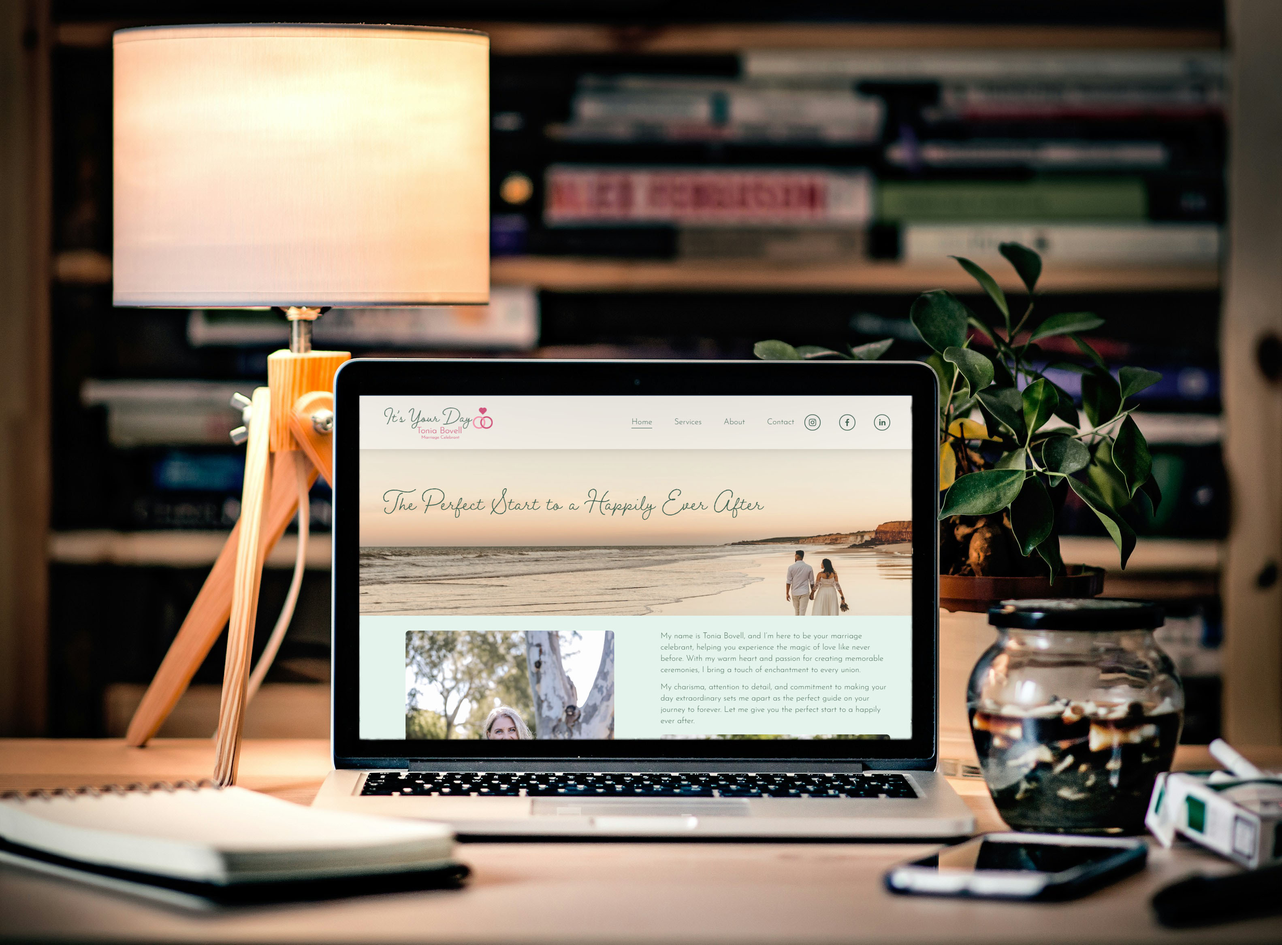
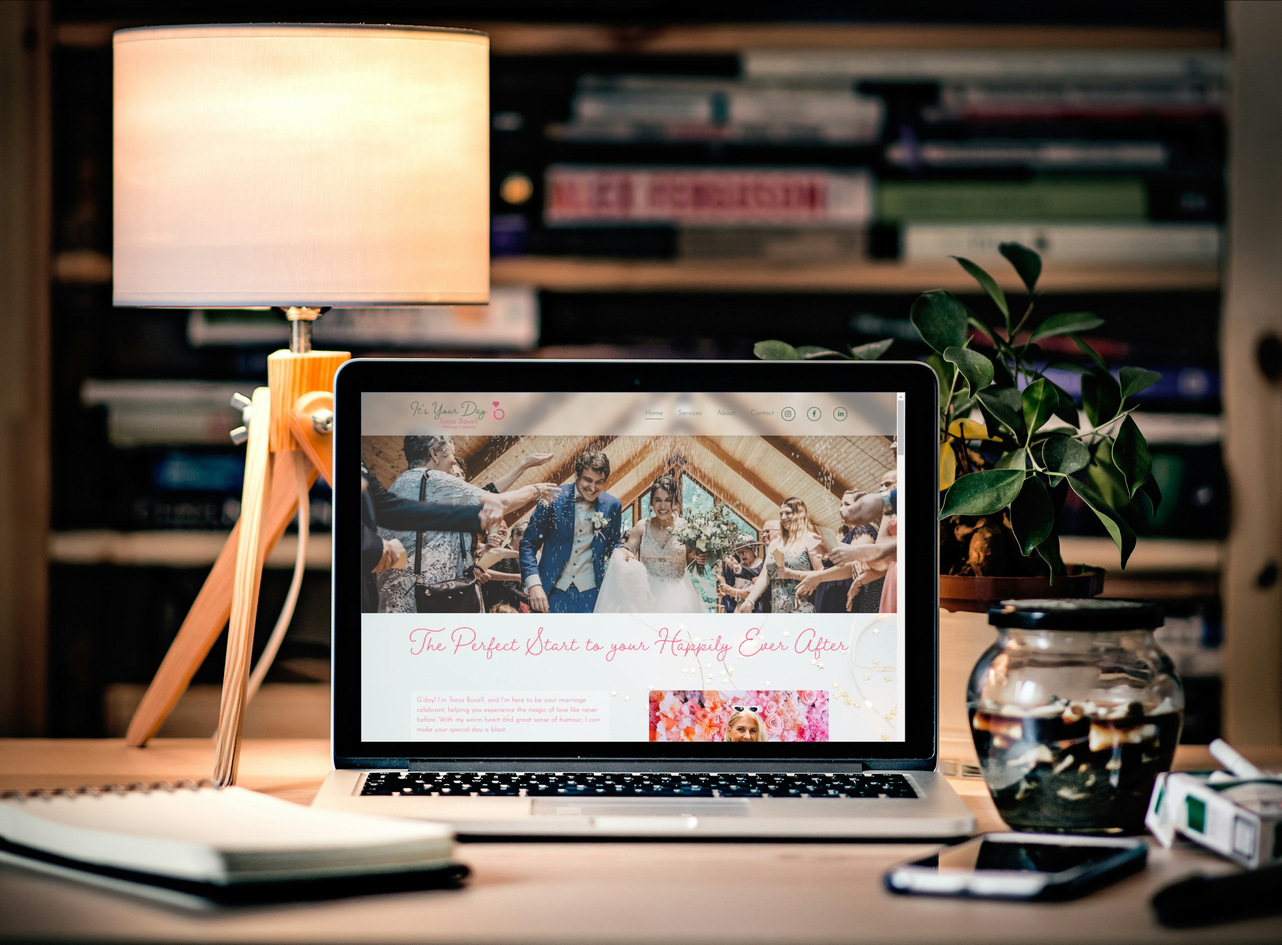
Added packages section, new images, bugfixes

Changed region(s): [[0.2787, 0.401, 0.7122, 0.8021]]

diff --git a/v2/src/components/css/packagesection.css b/v2/src/components/css/packagesection.css
@@ -1,0 +1,215 @@
+/* ./src/components/css/packagesection.css */
+
+/* Packages Section */
+
+#packages {
+    position: relative;
+    margin: auto;
+    margin-bottom: 20rem;
+    height: fit-content;
+    min-height: 100dvh;
+}
+
+.pkgBgImage {
+    width: 100%;
+    min-height: 100vh;
+}
+
+.pkg-bgImage-container {
+    position: absolute;
+    width: 100%; height: 100%;
+    top: 0; bottom: 0; left: 0; right: 0;
+    background-position: bottom center;
+    background-size: cover;
+}
+
+.package-container {
+    display: flex;
+    justify-content: center;
+    flex-wrap: wrap;
+    max-width: 80vw;
+    margin: auto;
+    gap: 30px;
+}
+
+.package-details {
+    width: 100%;
+    display: flex;
+    flex-direction: column;
+    justify-content: space-around;
+}
+
+.package-card {
+    width: fit-content;
+    max-width: 33%;
+    flex: 1;
+    flex-basis: calc(33.333% - 40px);
+    color: var(--inv-pri-colour);
+    background: rgb(0,187,255);
+    background: linear-gradient(135deg, var(--_gradient-start), var(--_gradient-end));
+    border-radius: 10px;
+    padding: 2rem;
+    transition: background-color var(--_transition-time), color var(--_transition-time);
+    transform-style: preserve-3d;
+    transform: perspective(1000px);
+
+    border: 1px solid;
+    border-color: var(--_border-colour);
+
+    -webkit-backface-visibility: hidden;
+    backface-visibility: hidden;
+    z-index: 50;
+}
+
+.package-inner {
+    transform: translateZ(10px);
+    transform-style: preserve-3d;
+    background-color: var(--inv-bg-colour);
+    border-radius: 10px;
+    display: flex;
+    flex-direction: column;
+    justify-content: space-around;
+    padding: 1rem;
+    width: auto; height: calc(100% - 2rem);
+}
+
+.package-name {
+    transform: translateZ(50px);
+    color: var(--secondary-colour);
+}
+
+.package-price {
+    transform: translateZ(50px);
+    color: var(--tertiary-colour);
+    font-weight: 600;
+    padding: 0;
+    margin: 0;
+    text-align: center;
+}
+
+.package-descriptor {
+    transform: translateZ(50px);
+    margin-top: 0;
+    padding-top: 0;
+}
+
+.package-descriptor ul, .package-descriptor li {
+    list-style-type: disc;
+    color: var(--inv-pri-colour);
+    border: none;
+    background: none;
+    text-align: left;
+}
+
+.card-buttons {
+    margin: 20px;
+}
+
+.card-buttons .link-button {
+    box-shadow: var(--secondary-colour) 4px 2px 10px 0px, var(--tertiary-colour) -4px -2px 10px 0px;
+    background-color: var(--inv-pri-colour);
+}
+
+.card-buttons .link-button:hover {
+    box-shadow: var(--tertiary-colour) 4px 2px 10px 0px, var(--secondary-colour) -4px -2px 10px 0px;
+    background-color: var(--secondary-colour);
+    color: var(--primary-colour);
+    cursor: pointer;
+}
+
+.card-buttons .link-button > a {
+    font-style: normal;
+}
+
+.card-buttons .link-button a:hover {
+    color: var(--primary-colour);
+}
+
+/* Mobile view */
+@media (max-width: 425px) {
+    #packages {
+        height: 100dvh;
+    }
+
+    .body-container > p {
+        margin: 1rem auto;
+        font-size: var(--step-1);
+    }
+
+    .package-card {
+        width: auto;
+        min-width: unset;
+        padding: 0; margin: 10px;
+    }
+
+    .package-container {
+        flex-wrap: wrap;
+        flex-direction: column;
+    }
+
+    .package-inner {
+        padding: 10px; margin: 10px;
+    }
+}
+
+/* Tablet/medium displays */
+@media (min-width: 426px) and (max-width: 810px) {
+    #packages {
+        min-height: 100dvh;
+        margin-bottom: 25rem;
+    }
+
+    .body-container > p {
+        width: 80vw;
+        margin: 1rem auto;
+        font-size: var(--step-1);
+    }
+
+    .package-container {
+        flex-wrap: wrap;
+        flex-direction: column;
+    }
+
+    .package-inner {
+        padding: 10px;
+        width: auto;
+    }
+
+}
+
+/* Laptops */
+@media (min-width: 811px) and (max-width: 1280px) {
+    #packages {
+        min-height: 100vh;
+        margin-bottom: 20rem;
+    }
+
+    .package-container {
+        flex-wrap: wrap;
+        flex-direction: column;
+    }
+
+    .package-name {
+        font-size: var(--step-3);
+    }
+
+    .package-price {
+        font-size: var(--step-1);
+    }
+}
+
+/* Large Displays */
+@media (min-width: 1281px) {
+    #packages {
+        min-height: 100vh;
+    }
+
+    .package-name {
+        font-size: var(--step-3);
+    }
+
+    .package-price {
+        font-size: var(--step-1);
+    }
+
+}

diff --git a/v2/src/components/packagesection.js b/v2/src/components/packagesection.js
@@ -1,0 +1,96 @@
+// src/components/testimonialsection.js
+
+// react and plugins
+import React, { useEffect } from 'react';
+import { graphql, useStaticQuery } from "gatsby";
+import { getImage } from "gatsby-plugin-image";
+import { BgImage } from "gbimage-bridge";
+import VanillaTilt from 'vanilla-tilt';
+
+// components
+import PackageCardComponent from '../components/packagecard';
+import '../components/css/packagesection.css';
+
+const PackagesSection = ({ darkMode }) => {
+    
+    const data = useStaticQuery(graphql`
+        query {
+            packageBGImageDark: file(relativePath: { eq: "christian-wiediger-WkfDrhxDMC8-unsplash.jpg" }) {
+                childImageSharp {
+                    gatsbyImageData(
+                        width: 2000,
+                        quality: 50,
+                        placeholder: BLURRED, 
+                        formats: [AUTO, WEBP, AVIF],
+                        webpOptions: {quality: 70}
+                    )
+                }
+            }
+
+            packageBGImageLight: file(relativePath: { eq: "christopher-gower-m_HRfLhgABo-unsplash.jpg" }) {
+                childImageSharp {
+                    gatsbyImageData(
+                        width: 2000,
+                        quality: 50,
+                        placeholder: BLURRED, 
+                        formats: [AUTO, WEBP, AVIF],
+                        webpOptions: {quality: 70}
+                    )
+                }
+            }
+
+            allSanityPackages(sort: {fields: price, order: ASC}) {
+                edges {
+                    node {
+                        id
+                        package
+                        price
+                        _rawDescriptor(resolveReferences: { maxDepth: 5 })
+                    }
+                }
+            }
+        }
+    `);
+
+    const packageBGImageDark = getImage(data.packageBGImageDark);
+    const packageBGImageLight = getImage(data.packageBGImageLight);
+    
+    // Fancy tilt card effect
+    const isSafari = /^((?!chrome|android).)*safari/i.test(navigator.userAgent);
+    useEffect(() => {
+        if(!isSafari) {
+            const cards = document.querySelectorAll(".package-card");
+            if (cards.length) {
+                VanillaTilt.init(cards, {
+                    max: 5,
+                    speed: 1000,
+                    glare: true,
+                    "max-glare": 0.5,
+                });
+            }
+        }
+    })
+
+    return (
+        <section id="packages" name="packages">
+            <div className="pkg-bgImage-container">
+                <BgImage image={darkMode ? packageBGImageDark : packageBGImageLight} className='pkgBgImage'>
+                <div className="body-container">
+                    <div className="body-heading"><h1>Web Design Packages</h1></div>
+                    <p>I offer three web design packages to cater for projects of all sizes.</p>
+                    <div className="package-container">
+                        {data.allSanityPackages.edges.map((edge, index) => {
+                            const card = edge.node;
+                            return (
+                                <PackageCardComponent key={card.id} webpackage={card} />
+                            );
+                        })}
+                    </div>
+                </div>
+                </BgImage>
+            </div>
+        </section>
+    );
+};
+
+export default PackagesSection;

diff --git a/v2/src/pages/index.js b/v2/src/pages/index.js
@@ -10,11 +10,12 @@ import { faFacebook, faXTwitter, faInstagram, faYoutube } from '@fortawesome/fre
 import { Link as ScrollLink, animateScroll as scroll, Events, scrollSpy } from 'react-scroll';
 
 // components
-import { SEO } from '../components/seo'
+import { SearchEngineOptimisation } from '../components/seo'
 const AboutSection = React.lazy(() => import('../components/aboutsection'));
 const ProjectSection = React.lazy(() => import( '../components/projectsection'));
 const ContactSection = React.lazy(() => import( '../components/contactsection'));
 const TestimonialSection = React.lazy(() => import( '../components/testimonialsection'));
+const PackageSection = React.lazy(() => import( '../components/packagesection'));
 
 const IndexPage = () => {
     //Handle the light/dark mode switching
@@ -207,7 +208,7 @@ const IndexPage = () => {
                         <div className="control-button"><FontAwesomeIcon icon={faArrowDown} /></div>
                     </div>
                 </div>
-                <div className='nav-container' onMouseEnter={toggleMenu} onMouseLeave={toggleMenu}
+                <div className='nav-container' onMouseEnter={toggleMenu} onMouseLeave={toggleMenu} aria-label='Toggle Menu'
                         onKeyDown={(e) => {
                             if (e.key === 'Enter' || e.key ===' ') {
                                 toggleMenu();
@@ -222,6 +223,7 @@ const IndexPage = () => {
                             <ScrollLink to="about" smooth='easeInOutCubic' duration={1000}><li>About</li></ScrollLink>
                             <ScrollLink to="projects" smooth='easeInOutCubic' duration={1000}><li>Projects</li></ScrollLink>
                             <ScrollLink to="testimonials" smooth='easeInOutCubic' duration={1000}><li>Testimonials</li></ScrollLink>
+                            <ScrollLink to="packages" smooth='easeInOutCubic' duration={1000}><li>Packages</li></ScrollLink>
                             <ScrollLink to="contact" smooth='easeInOutCubic' duration={1000}><li>Contact</li></ScrollLink>
                         </ul>
                     </nav>
@@ -246,6 +248,7 @@ const IndexPage = () => {
                     <AboutSection darkMode={darkMode} />
                     <ProjectSection projects={projects} background={projectsBGImage} />
                     <TestimonialSection />
+                    <PackageSection darkMode={darkMode}/>
                     <ContactSection />
                 </Suspense>
             </main>
@@ -268,5 +271,5 @@ const IndexPage = () => {
 export default IndexPage;
 
 export const Head = () => {
-    <SEO />
+    <SearchEngineOptimisation />
 }

diff --git a/v2/src/components/packagecard.js b/v2/src/components/packagecard.js
@@ -1,0 +1,26 @@
+// src/components/packageCard.js
+import React from 'react';
+import BlockContent from '@sanity/block-content-to-react'
+import { FontAwesomeIcon } from '@fortawesome/react-fontawesome';
+import { faDollarSign } from '@fortawesome/free-solid-svg-icons';
+import { Link as ScrollLink, animateScroll as scroll, Events, scrollSpy } from 'react-scroll';
+
+const PackageCardComponent = ({ webpackage }) => {
+
+    return (
+        <div className="package-card">
+            <div className="package-inner">
+                <div className="package-details">
+                    <h2 className='package-name'>{webpackage.package}</h2>
+                    <h3 className='package-price'><FontAwesomeIcon icon={faDollarSign}/>{webpackage.price}</h3>
+                    <BlockContent blocks={webpackage._rawDescriptor} className='package-descriptor'/>
+                    <div class='card-buttons'>
+                        <ScrollLink to="contact" smooth='easeInOutCubic' duration={1000}><div class='link-button'>Order now</div></ScrollLink>
+                    </div>
+                </div>
+            </div>
+        </div>
+    );
+};
+
+export default PackageCardComponent;

diff --git a/v2/src/components/css/projectsection.css b/v2/src/components/css/projectsection.css
@@ -57,7 +57,7 @@
     }
 
     .sitecard-descriptor, .testimonial-text {
-        text-align: justify;
+        text-align: left;
         transition: color var(--_transition-time) ease-in-out;
     }
 
